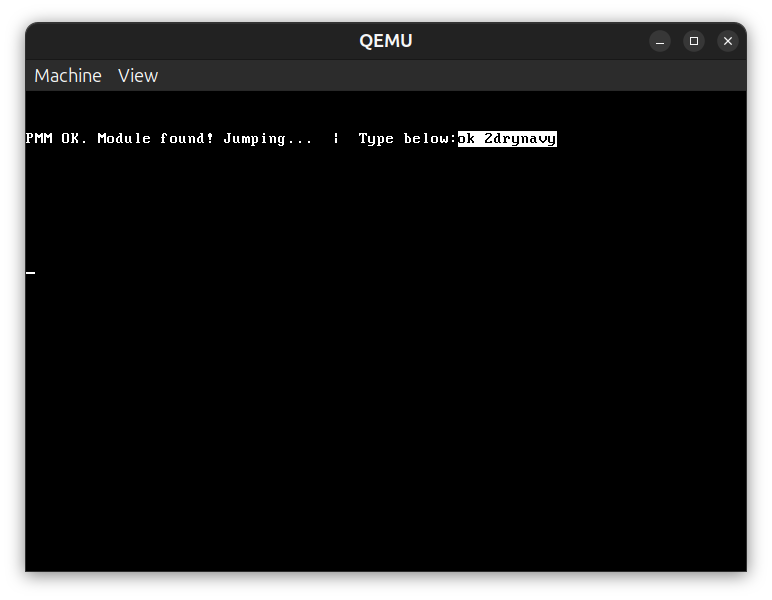
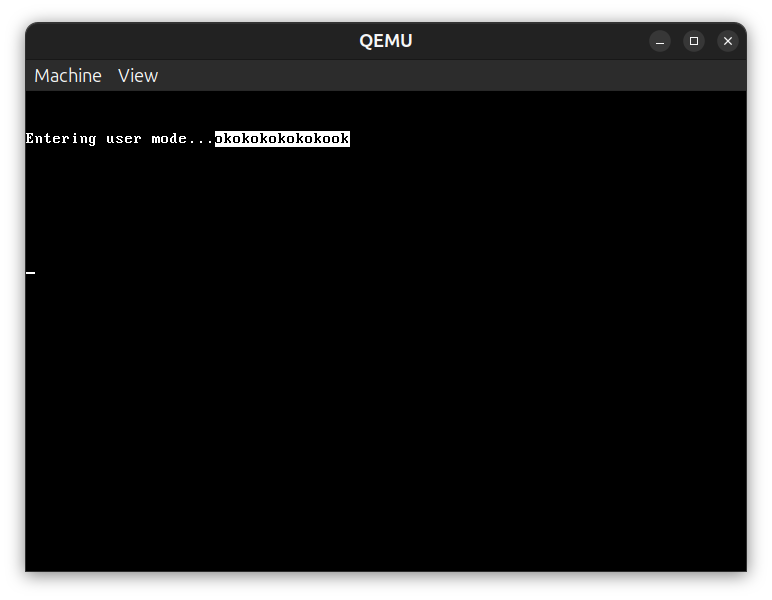
Add user mode

Changed region(s): [[0.0311, 0.21, 0.7461, 0.27]]

diff --git a/kmain.c b/kmain.c
@@ -6,32 +6,21 @@
 #include "io.h"
 #include "paging.h"
 #include "pmm.h"
+#include "usermode.h"
+#include "tss.h"
 
-static void serial_write_str(const char *str)
+static void memcpy_local(unsigned char *dst, unsigned char *src,
+                         unsigned int len)
 {
-    while (*str) {
-        while (!(inb(0x3F8 + 5) & 0x20));
-        outb(0x3F8, *str++);
-    }
+    unsigned int i;
+    for (i = 0; i < len; i++)
+        dst[i] = src[i];
 }
 
-/* simple hex printer for serial, to verify addresses */
-static void serial_write_hex(unsigned int n)
-{
-    char buf[11];
-    int i;
-    buf[0] = '0'; buf[1] = 'x';
-    for (i = 9; i >= 2; i--) {
-        int nibble = n & 0xF;
-        buf[i] = (nibble < 10) ? ('0' + nibble) : ('a' + nibble - 10);
-        n >>= 4;
-    }
-    buf[10] = '\0';
-    serial_write_str(buf);
-}
-
-/* kernel_end is exported by the linker script */
 extern unsigned int kernel_end;
+
+/* kernel stack — TSS esp0 points to the top of this */
+static unsigned int kernel_stack[1024];
 
 void kmain(unsigned int ebx)
 {
@@ -43,51 +32,41 @@ void kmain(unsigned int ebx)
     idt_init();
     paging_init();
 
-    /* Chapter 10: init page frame allocator */
     unsigned int kernel_phys_end = (unsigned int) &kernel_end;
-    pmm_init(mbinfo->mem_upper, kernel_phys_end);
 
-    serial_write_str("paging enabled\n");
-    serial_write_str("pmm initialised\n");
+    unsigned int *mods      = (unsigned int *) mbinfo->mods_addr;
+    unsigned int prog_start = mods[0];
+    unsigned int prog_end   = mods[1];
+    unsigned int prog_size  = prog_end - prog_start;
 
-    /* test: allocate 3 frames and print their addresses */
-    unsigned int f1 = pmm_alloc();
-    unsigned int f2 = pmm_alloc();
-    unsigned int f3 = pmm_alloc();
+    pmm_init(mbinfo->mem_upper, kernel_phys_end, prog_end);
 
-    serial_write_str("frame1: "); serial_write_hex(f1); serial_write_str("\n");
-    serial_write_str("frame2: "); serial_write_hex(f2); serial_write_str("\n");
-    serial_write_str("frame3: "); serial_write_hex(f3); serial_write_str("\n");
+    /* set up TSS so inter-privilege interrupts have a kernel stack */
+    unsigned int kernel_esp = (unsigned int) kernel_stack + sizeof(kernel_stack);
+    tss_init(kernel_esp);
 
-    /* free frame2 and reallocate - should get same address back */
-    pmm_free(f2);
-    unsigned int f2b = pmm_alloc();
-    serial_write_str("frame2 after free+alloc: ");
-    serial_write_hex(f2b);
-    serial_write_str("\n");
-
-    serial_write_str("kmain started\n");
+    extern void tss_load(void);
+    tss_load();
 
     if (mbinfo->mods_count != 1) {
-        serial_write_str("ERROR: module not loaded\n");
-        fb_write("ERROR: module not loaded!", 25, FB_WHITE, FB_BLACK);
-        __asm__ __volatile__("sti");
+        fb_write("ERROR: no module!", 17, FB_WHITE, FB_BLACK);
         while (1) {}
-        return;
     }
 
-    serial_write_str("module found, jumping\n");
-    fb_write("PMM OK. Module found! Jumping...", 32, FB_WHITE, FB_BLACK);
-    fb_write("  |  Type below:", 16, FB_WHITE, FB_BLACK);
+    /* allocate page frames for user code and stack */
+    unsigned int code_frame  = pmm_alloc();
+    unsigned int stack_frame = pmm_alloc();
+    unsigned int user_esp    = stack_frame + 4096;
 
-    __asm__ __volatile__("sti");
+    /* copy the user program into its code frame */
+    memcpy_local((unsigned char *) code_frame,
+                 (unsigned char *) prog_start,
+                 prog_size);
 
-    unsigned int *mods = (unsigned int *) mbinfo->mods_addr;
-    unsigned int program_addr = mods[0];
+    fb_write("Entering user mode...", 21, FB_WHITE, FB_BLACK);
 
-    typedef void (*call_module_t)(void);
-    call_module_t start_program = (call_module_t) program_addr;
-    start_program();
+    /* drop to PL3 — never returns */
+    enter_usermode(code_frame, user_esp);
 
     while (1) {}
 }

diff --git a/pmm.c b/pmm.c
@@ -1,76 +1,67 @@
 #include "pmm.h"
 
-/* each bit in the bitmap represents one 4KB page frame */
-#define FRAME_SIZE      4096
-#define MAX_FRAMES      32768       /* supports up to 128 MB of RAM */
-#define BITMAP_SIZE     (MAX_FRAMES / 32)
+#define FRAME_SIZE   4096
+#define MAX_FRAMES   32768
+#define BITMAP_SIZE  (MAX_FRAMES / 32)
 
-static unsigned int bitmap[BITMAP_SIZE];  /* 0 = free, 1 = used */
+static unsigned int bitmap[BITMAP_SIZE];
 static unsigned int total_frames = 0;
 
-/* mark a frame as used */
 static void set_frame(unsigned int frame)
 {
-    bitmap[frame / 32] |= (1 << (frame % 32));
+    bitmap[frame / 32] |= (1u << (frame % 32));
 }
 
-/* mark a frame as free */
 static void clear_frame(unsigned int frame)
 {
-    bitmap[frame / 32] &= ~(1 << (frame % 32));
+    bitmap[frame / 32] &= ~(1u << (frame % 32));
 }
 
-/* check if a frame is free */
-static unsigned int test_frame(unsigned int frame)
-{
-    return bitmap[frame / 32] & (1 << (frame % 32));
-}
-
-void pmm_init(unsigned int mem_upper, unsigned int kernel_phys_end)
+void pmm_init(unsigned int mem_upper,
+              unsigned int kernel_phys_end,
+              unsigned int module_phys_end)
 {
     unsigned int i;
-
-    /* mem_upper is KB above 1MB, convert to total bytes */
     unsigned int total_memory = (mem_upper * 1024) + 0x100000;
     total_frames = total_memory / FRAME_SIZE;
 
-    /* start by marking everything as used */
-    for (i = 0; i < BITMAP_SIZE; i++) {
+    /* mark everything used */
+    for (i = 0; i < BITMAP_SIZE; i++)
         bitmap[i] = 0xFFFFFFFF;
-    }
 
-    /* free all frames above 1MB up to total memory */
-    for (i = 0x100000 / FRAME_SIZE; i < total_frames; i++) {
+    /* free everything above 1MB */
+    for (i = 0x100000 / FRAME_SIZE; i < total_frames; i++)
         clear_frame(i);
-    }
 
-    /* re-mark frames used by the kernel as taken */
+    /* re-mark first 1MB (BIOS/GRUB) */
+    for (i = 0; i < 0x100000 / FRAME_SIZE; i++)
+        set_frame(i);
+
+    /* re-mark kernel frames */
     unsigned int kernel_frames = (kernel_phys_end / FRAME_SIZE) + 1;
-    for (i = 0; i < kernel_frames; i++) {
+    for (i = 0; i < kernel_frames; i++)
         set_frame(i);
-    }
 
-    /* mark first 1MB as used (BIOS, GRUB etc.) */
-    for (i = 0; i < 0x100000 / FRAME_SIZE; i++) {
+    /* re-mark module frames so PMM never hands them out */
+    unsigned int module_frames = (module_phys_end / FRAME_SIZE) + 1;
+    for (i = 0; i < module_frames; i++)
         set_frame(i);
-    }
 }
 
-/* returns physical address of a free frame, or 0 if none */
 unsigned int pmm_alloc(void)
 {
     unsigned int i, j;
     for (i = 0; i < BITMAP_SIZE; i++) {
-        if (bitmap[i] != 0xFFFFFFFF) {       /* at least one bit free */
+        if (bitmap[i] != 0xFFFFFFFF) {
             for (j = 0; j < 32; j++) {
-                if (!(bitmap[i] & (1 << j))) {
+                if (!(bitmap[i] & (1u << j))) {
                     set_frame(i * 32 + j);
                     return (i * 32 + j) * FRAME_SIZE;
                 }
             }
         }
     }
-    return 0;   /* out of memory */
+    return 0;
 }
 
 void pmm_free(unsigned int addr)

diff --git a/gdt.c b/gdt.c
@@ -14,7 +14,8 @@ struct gdt_ptr {
     unsigned int   base;
 } __attribute__((packed));
 
-static struct gdt_entry gdt[3];
+/* 6 entries: null, kernel code, kernel data, user code, user data, TSS */
+static struct gdt_entry gdt[6];
 static struct gdt_ptr   gp;
 
 extern void gdt_load(unsigned int);
@@ -28,22 +29,33 @@ static void gdt_set_entry(int num,
     gdt[num].base_low    = (base & 0xFFFF);
     gdt[num].base_middle = (base >> 16) & 0xFF;
     gdt[num].base_high   = (base >> 24) & 0xFF;
-
     gdt[num].limit_low   = (limit & 0xFFFF);
     gdt[num].granularity = (limit >> 16) & 0x0F;
     gdt[num].granularity |= gran & 0xF0;
-
     gdt[num].access      = access;
+}
+
+/* called from tss.c after TSS is set up */
+void gdt_set_tss(unsigned int base, unsigned int limit)
+{
+    gdt_set_entry(5, base, limit, 0x89, 0x00);
+    /* reload GDT so new entry is visible */
+    gp.limit = (sizeof(struct gdt_entry) * 6) - 1;
+    gp.base  = (unsigned int) &gdt;
+    gdt_load((unsigned int) &gp);
 }
 
 void gdt_init(void)
 {
-    gp.limit = (sizeof(struct gdt_entry) * 3) - 1;
+    gp.limit = (sizeof(struct gdt_entry) * 6) - 1;
     gp.base  = (unsigned int) &gdt;
 
-    gdt_set_entry(0, 0, 0,          0,    0   ); /* null */
+    gdt_set_entry(0, 0, 0,          0,    0   ); /* null        */
     gdt_set_entry(1, 0, 0xFFFFFFFF, 0x9A, 0xCF); /* kernel code */
     gdt_set_entry(2, 0, 0xFFFFFFFF, 0x92, 0xCF); /* kernel data */
+    gdt_set_entry(3, 0, 0xFFFFFFFF, 0xFA, 0xCF); /* user code   */
+    gdt_set_entry(4, 0, 0xFFFFFFFF, 0xF2, 0xCF); /* user data   */
+    gdt_set_entry(5, 0, 0,          0,    0   ); /* TSS placeholder */
 
     gdt_load((unsigned int) &gp);
 }

diff --git a/tss.c b/tss.c
@@ -1,0 +1,51 @@
+#include "tss.h"
+
+struct tss_entry {
+    unsigned int  prev_tss;
+    unsigned int  esp0;      /* kernel stack pointer */
+    unsigned int  ss0;       /* kernel stack segment */
+    unsigned int  esp1;
+    unsigned int  ss1;
+    unsigned int  esp2;
+    unsigned int  ss2;
+    unsigned int  cr3;
+    unsigned int  eip;
+    unsigned int  eflags;
+    unsigned int  eax, ecx, edx, ebx;
+    unsigned int  esp, ebp, esi, edi;
+    unsigned int  es, cs, ss, ds, fs, gs;
+    unsigned int  ldt;
+    unsigned short trap;
+    unsigned short iomap_base;
+} __attribute__((packed));
+
+static struct tss_entry tss;
+
+/* kernel stack used when CPU switches back to ring 0 */
+static unsigned int kernel_stack[1024];
+
+void tss_init(unsigned int kernel_esp)
+{
+    unsigned int base  = (unsigned int) &tss;
+    unsigned int limit = base + sizeof(tss);
+
+    /* zero the whole TSS */
+    unsigned char *p = (unsigned char *) &tss;
+    unsigned int i;
+    for (i = 0; i < sizeof(tss); i++)
+        p[i] = 0;
+
+    tss.ss0  = 0x10;          /* kernel data segment */
+    tss.esp0 = kernel_esp;    /* kernel stack top    */
+    tss.iomap_base = sizeof(tss);
+
+    /* install TSS descriptor into GDT slot 5 (offset 0x28)
+       done via gdt_set_tss which we expose from gdt.c */
+    extern void gdt_set_tss(unsigned int base, unsigned int limit);
+    gdt_set_tss(base, limit);
+}
+
+unsigned int tss_get_base(void)
+{
+    return (unsigned int) &tss;
+}

diff --git a/pmm.h b/pmm.h
@@ -1,7 +1,9 @@
 #ifndef INCLUDE_PMM_H
 #define INCLUDE_PMM_H
 
-void pmm_init(unsigned int mem_upper, unsigned int kernel_phys_end);
+void pmm_init(unsigned int mem_upper,
+              unsigned int kernel_phys_end,
+              unsigned int module_phys_end);
 unsigned int pmm_alloc(void);
 void pmm_free(unsigned int addr);
 

diff --git a/usermode.h b/usermode.h
@@ -1,0 +1,6 @@
+#ifndef INCLUDE_USERMODE_H
+#define INCLUDE_USERMODE_H
+
+void enter_usermode(unsigned int eip, unsigned int esp);
+
+#endif

diff --git a/tss.h b/tss.h
@@ -1,0 +1,6 @@
+#ifndef INCLUDE_TSS_H
+#define INCLUDE_TSS_H
+
+void tss_init(unsigned int kernel_esp);
+
+#endif
